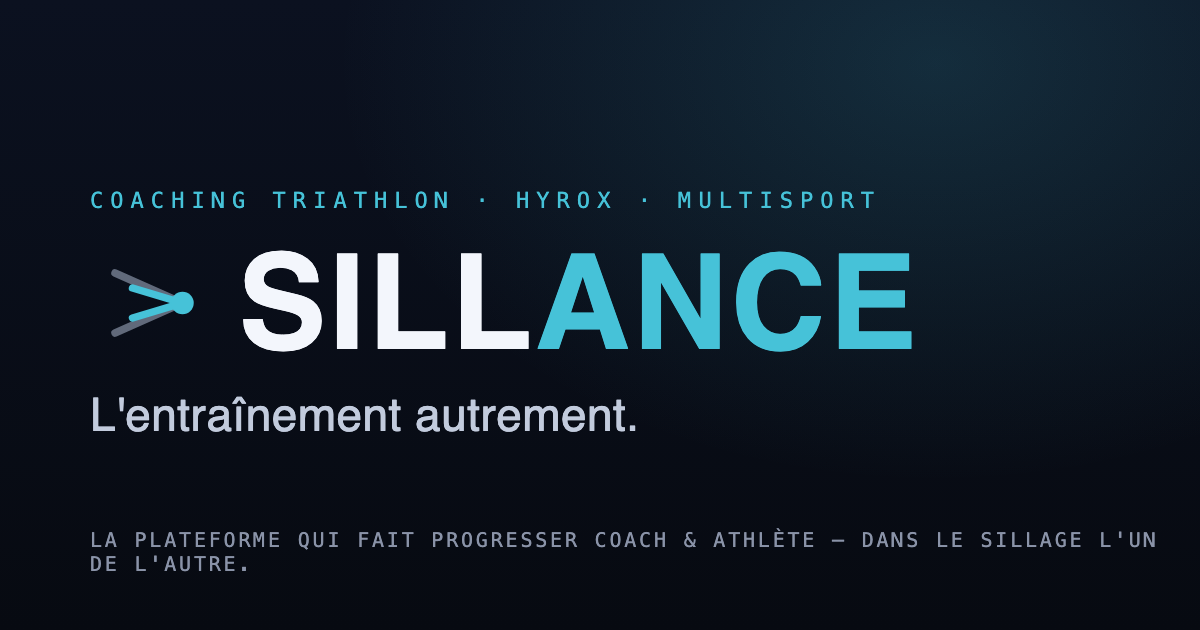
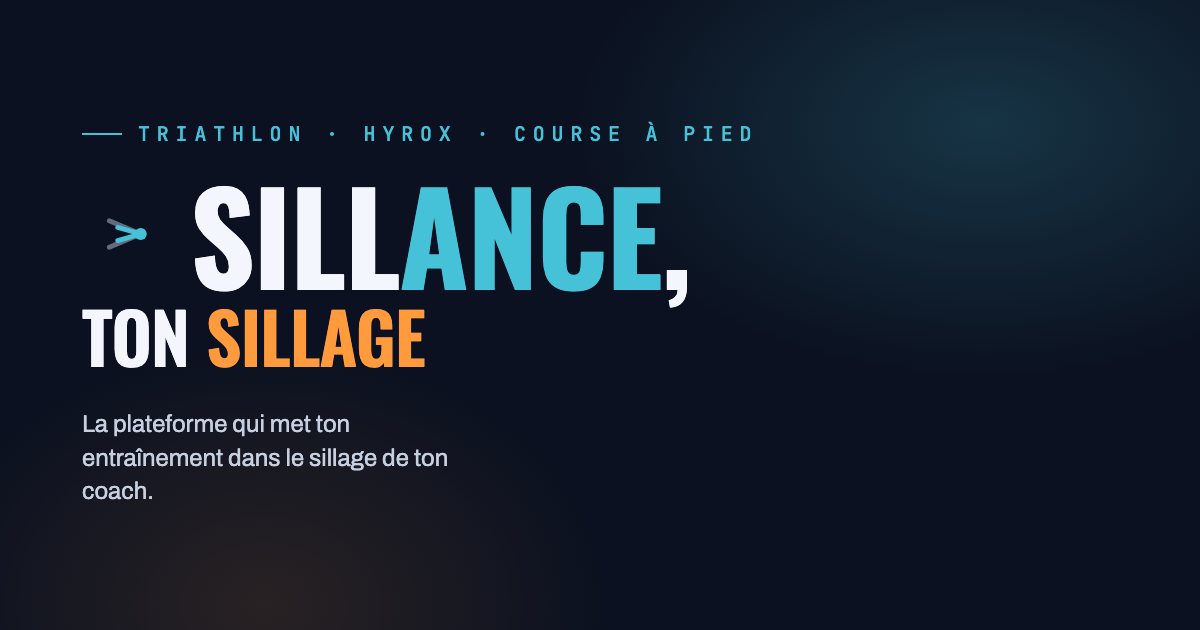
Hygiène de lancement : aperçu social, 404, SEO
- Fix bug : le placeholder __SITE_URL__ n'avait jamais été remplacé dans
  les balises Open Graph / Twitter (index, app, demo, club) → l'aperçu au
  partage du lien était cassé. Remplacé par l'URL réelle.
- og-image.png régénérée au branding actuel (« Sillance, ton sillage »,
  Triathlon · Hyrox · Course à pied) — l'ancienne montrait le slogan périmé.
- 404.html on-brand (« Hors du sillage ») — servi par GitHub Pages.
- robots.txt + sitemap.xml (prêts ; pleinement effectifs avec un domaine
  custom, la racine du domaine n'étant pas contrôlée sur une Pages projet).
- Lien canonical sur la landing.

diff --git a/404.html b/404.html
@@ -1,0 +1,41 @@
+<!DOCTYPE html>
+<html lang="fr"><head><meta charset="UTF-8">
+<meta name="viewport" content="width=device-width, initial-scale=1.0">
+<meta http-equiv="Content-Security-Policy" content="default-src 'self'; script-src 'self' 'unsafe-inline'; style-src 'self' 'unsafe-inline' https://fonts.googleapis.com; font-src 'self' https://fonts.gstatic.com; img-src 'self' data:; connect-src 'self'; base-uri 'self'; object-src 'none'; form-action 'self'">
+<meta name="robots" content="noindex">
+<title>Page introuvable — Sillance</title>
+<link rel="icon" type="image/svg+xml" href="./favicon.svg">
+<link rel="preconnect" href="https://fonts.gstatic.com" crossorigin>
+<link href="https://fonts.googleapis.com/css2?family=Oswald:wght@600;700&family=Archivo:wght@300;400;600&family=JetBrains+Mono:wght@500&display=swap" rel="stylesheet">
+<style>
+  :root{--paper:#0B1120;--ink:#F3F6FC;--soft:#C7D0E0;--muted:#8A93A8;--accent:#46C2D8;--accent2:#FF9A3D;
+    --line-strong:rgba(150,165,200,.30);--display:'Oswald',sans-serif;--ui:'Archivo',sans-serif;--mono:'JetBrains Mono',monospace}
+  *{margin:0;padding:0;box-sizing:border-box}
+  body{min-height:100vh;background:
+      radial-gradient(700px 460px at 78% 22%, rgba(70,194,216,.16), transparent 60%),
+      radial-gradient(560px 440px at 20% 96%, rgba(255,154,61,.10), transparent 62%),
+      var(--paper);
+    color:var(--soft);font-family:var(--ui);display:flex;align-items:center;justify-content:center;padding:40px 22px;-webkit-font-smoothing:antialiased}
+  .box{max-width:560px;text-align:center}
+  .code{font-family:var(--mono);font-size:13px;letter-spacing:.3em;text-transform:uppercase;color:var(--accent);margin-bottom:22px}
+  h1{font-family:var(--display);font-weight:700;font-size:clamp(40px,9vw,80px);line-height:.95;text-transform:uppercase;color:var(--ink);letter-spacing:-.01em}
+  h1 .o{color:var(--accent2)}
+  p{font-size:17px;font-weight:300;line-height:1.6;margin:20px 0 32px;color:var(--soft)}
+  .cta{display:inline-flex;gap:12px;flex-wrap:wrap;justify-content:center}
+  a.btn{font-weight:600;font-size:14px;padding:13px 24px;border-radius:8px;text-decoration:none;transition:.16s;display:inline-block}
+  a.primary{background:var(--accent);color:#062028}
+  a.primary:hover{filter:brightness(1.07)}
+  a.ghost{border:1px solid var(--line-strong);color:var(--soft)}
+  a.ghost:hover{border-color:var(--accent);color:var(--ink)}
+</style></head>
+<body>
+  <div class="box">
+    <div class="code">Erreur 404</div>
+    <h1>Hors du <span class="o">sillage</span></h1>
+    <p>Cette page n'existe pas ou a été déplacée. Reviens dans le courant.</p>
+    <div class="cta">
+      <a class="btn primary" href="./index.html">Retour à l'accueil</a>
+      <a class="btn ghost" href="./sillance-app.html">Découvrir la démo</a>
+    </div>
+  </div>
+</body></html>

diff --git a/index.html b/index.html
@@ -9,16 +9,17 @@
 <title>Sillance, entre dans le sillage</title>
 <meta name="description" content="Sillance, la plateforme de coaching qui met ton entraînement dans le sillage de ton coach. Triathlon, Hyrox, course à pied.">
 <link rel="icon" type="image/svg+xml" href="./favicon.svg">
+<link rel="canonical" href="https://rowandgrv.github.io/sillance/">
 <meta property="og:type" content="website">
 <meta property="og:site_name" content="Sillance">
 <meta property="og:title" content="Sillance, entre dans le sillage">
 <meta property="og:description" content="La plateforme qui fait progresser coach et athlète, dans le sillage l'un de l'autre. Triathlon, Hyrox, course à pied.">
-<meta property="og:image" content="__SITE_URL__/og-image.png">
-<meta property="og:url" content="__SITE_URL__/">
+<meta property="og:image" content="https://rowandgrv.github.io/sillance/og-image.png">
+<meta property="og:url" content="https://rowandgrv.github.io/sillance/">
 <meta name="twitter:card" content="summary_large_image">
 <meta name="twitter:title" content="Sillance, entre dans le sillage">
 <meta name="twitter:description" content="La plateforme qui fait progresser coach et athlète. Triathlon, Hyrox, course à pied.">
-<meta name="twitter:image" content="__SITE_URL__/og-image.png">
+<meta name="twitter:image" content="https://rowandgrv.github.io/sillance/og-image.png">
 <link rel="preconnect" href="https://fonts.gstatic.com" crossorigin>
 <link href="https://fonts.googleapis.com/css2?family=Oswald:wght@400;500;600;700&family=Archivo:wght@300;400;500;600&family=JetBrains+Mono:wght@400;500&display=swap" rel="stylesheet">
 <style>

diff --git a/sillance-app.html b/sillance-app.html
@@ -13,12 +13,12 @@
 <meta property="og:site_name" content="Sillance">
 <meta property="og:title" content="Sillance — L'entraînement autrement">
 <meta property="og:description" content="La plateforme qui fait progresser coach & athlète — dans le sillage l'un de l'autre. Triathlon, Hyrox, multisport.">
-<meta property="og:image" content="__SITE_URL__/og-image.png">
-<meta property="og:url" content="__SITE_URL__/">
+<meta property="og:image" content="https://rowandgrv.github.io/sillance/og-image.png">
+<meta property="og:url" content="https://rowandgrv.github.io/sillance/">
 <meta name="twitter:card" content="summary_large_image">
 <meta name="twitter:title" content="Sillance — L'entraînement autrement">
 <meta name="twitter:description" content="La plateforme qui fait progresser coach & athlète. Triathlon, Hyrox, multisport.">
-<meta name="twitter:image" content="__SITE_URL__/og-image.png">
+<meta name="twitter:image" content="https://rowandgrv.github.io/sillance/og-image.png">
 <title>Sillance — Coaching triathlon</title>
 <link rel="preconnect" href="https://fonts.googleapis.com">
 <link href="https://fonts.googleapis.com/css2?family=Oswald:wght@500;600;700&family=Archivo:wght@400;500;600;700;800&family=JetBrains+Mono:wght@400;600;700&display=swap" rel="stylesheet">

diff --git a/sillance-club.html b/sillance-club.html
@@ -8,12 +8,12 @@
 <meta property="og:site_name" content="Sillance">
 <meta property="og:title" content="Sillance — L'entraînement autrement">
 <meta property="og:description" content="La plateforme qui fait progresser coach & athlète — dans le sillage l'un de l'autre. Triathlon, Hyrox, multisport.">
-<meta property="og:image" content="__SITE_URL__/og-image.png">
-<meta property="og:url" content="__SITE_URL__/">
+<meta property="og:image" content="https://rowandgrv.github.io/sillance/og-image.png">
+<meta property="og:url" content="https://rowandgrv.github.io/sillance/">
 <meta name="twitter:card" content="summary_large_image">
 <meta name="twitter:title" content="Sillance — L'entraînement autrement">
 <meta name="twitter:description" content="La plateforme qui fait progresser coach & athlète. Triathlon, Hyrox, multisport.">
-<meta name="twitter:image" content="__SITE_URL__/og-image.png">
+<meta name="twitter:image" content="https://rowandgrv.github.io/sillance/og-image.png">
 <title>Espace salle — gestion créneaux, adhérents & facturation</title>
 <link rel="preconnect" href="https://fonts.googleapis.com">
 <link href="https://fonts.googleapis.com/css2?family=Oswald:wght@400;500;600;700&display=swap" rel="stylesheet">

diff --git a/sillance-demo.html b/sillance-demo.html
@@ -8,12 +8,12 @@
 <meta property="og:site_name" content="Sillance">
 <meta property="og:title" content="Sillance — L'entraînement autrement">
 <meta property="og:description" content="La plateforme qui fait progresser coach & athlète — dans le sillage l'un de l'autre. Triathlon, Hyrox, multisport.">
-<meta property="og:image" content="__SITE_URL__/og-image.png">
-<meta property="og:url" content="__SITE_URL__/">
+<meta property="og:image" content="https://rowandgrv.github.io/sillance/og-image.png">
+<meta property="og:url" content="https://rowandgrv.github.io/sillance/">
 <meta name="twitter:card" content="summary_large_image">
 <meta name="twitter:title" content="Sillance — L'entraînement autrement">
 <meta name="twitter:description" content="La plateforme qui fait progresser coach & athlète. Triathlon, Hyrox, multisport.">
-<meta name="twitter:image" content="__SITE_URL__/og-image.png">
+<meta name="twitter:image" content="https://rowandgrv.github.io/sillance/og-image.png">
 <title>Sillance — Démo (front + back-end)</title>
 <style>
   :root{--bg:#0b0e12;--card:#11151a;--line:#222a32;--muted:#8a949e;--ink:#e7edf3;--accent:#46C2D8;--good:#39e6a3;--bike:#ffb13d}